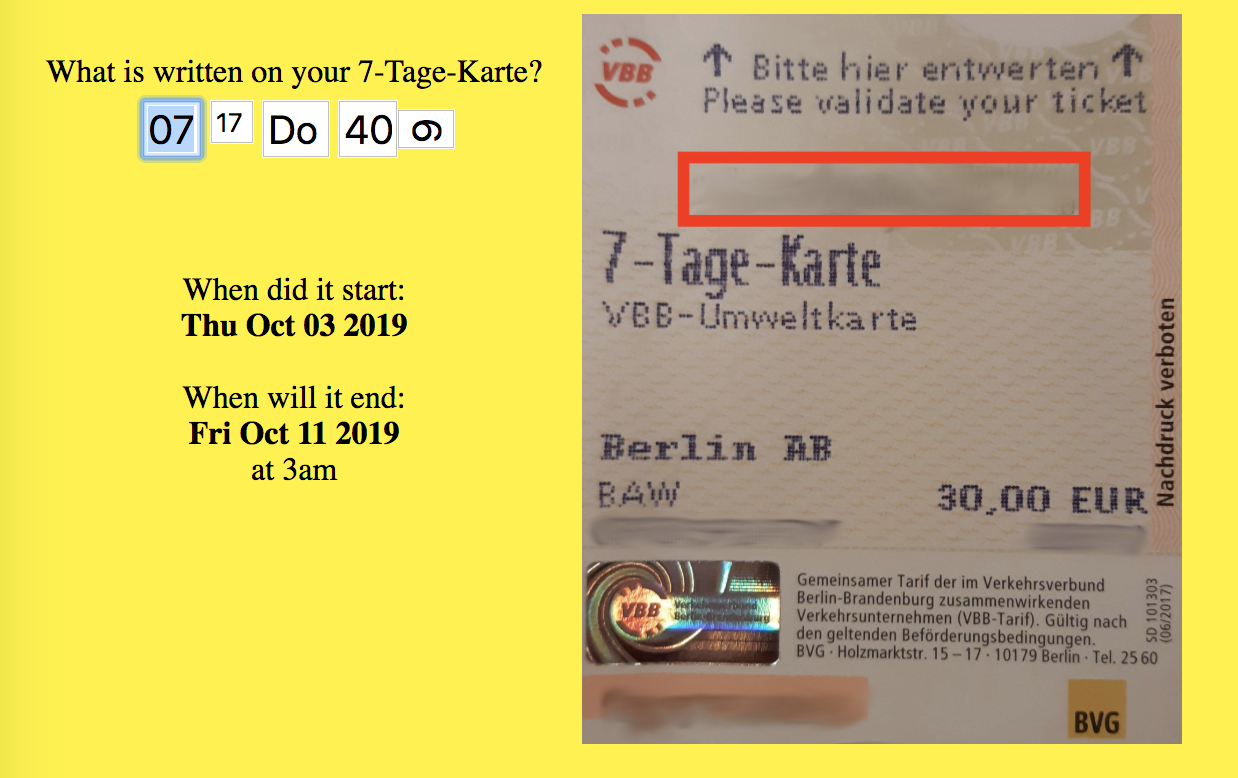
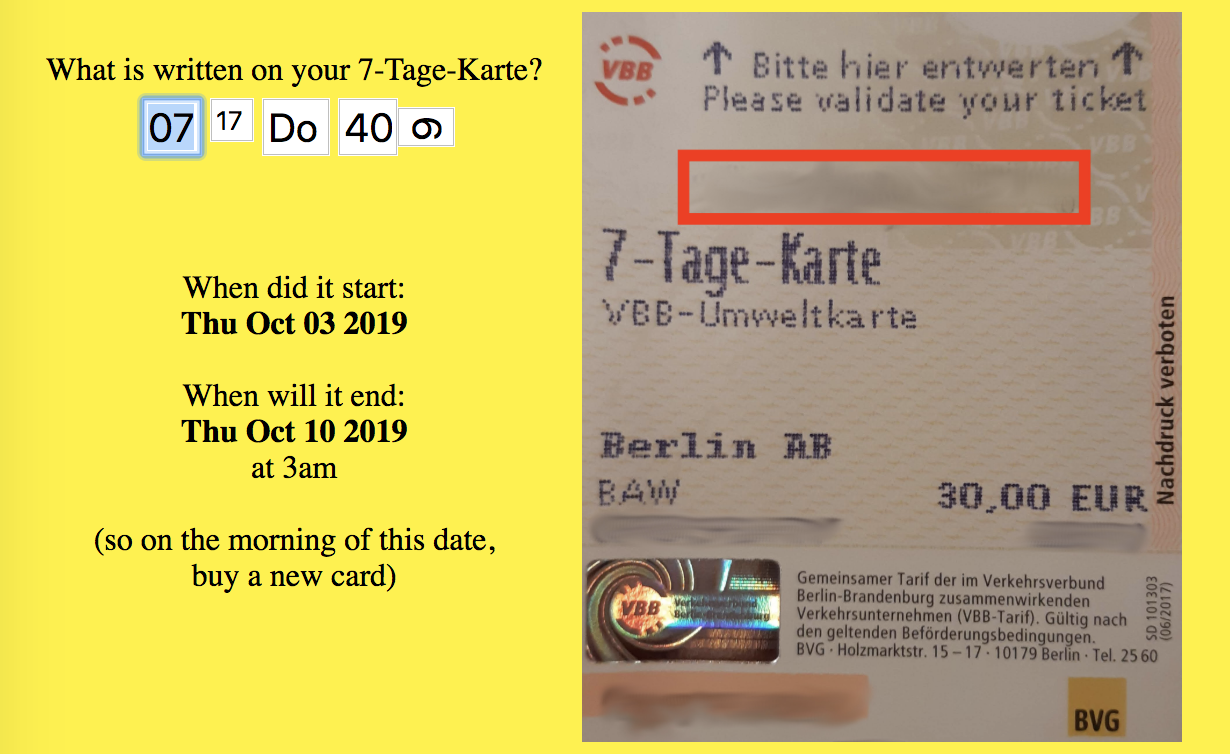
fixed year issue

diff --git a/index.html b/index.html
@@ -15,7 +15,12 @@
             let d = new Date();
             // d.setHours(parseInt(document.formName['hour'].value), parseInt(document.formName['minute'].value), 0, 0);
             d.setHours(0, 0, 0, 0);
-            d.setFullYear(2019, 0, 1);
+            const y = parseInt(document.formName['yearnum'].value);
+            const cy = d.getFullYear();
+            let y1 = Math.trunc(cy / 10) * 10 + y;
+            if (Math.abs(y1 - cy) > Math.abs(y1 - 10 - cy)) y1 = y1 - 10;
+            if (Math.abs(y1 - cy) > Math.abs(y1 + 10 - cy)) y1 = y1 + 10;
+            d.setFullYear(y1, 0, 1);
             const days = ['mo', 'di', 'mi', 'do', 'fr', 'sa', 'so'];
             const week = parseInt(document.formName['week'].value);
             const currday = days.indexOf(document.formName['day'].value.toLowerCase());
@@ -55,7 +60,8 @@
             <label id="datestart" style="font-weight: bold"></label><br>
             <br>
             When will it end:<br>
-            <label id="dateend" style="font-weight: bold"></label><br>at 3am<br><br>(so on the morning of this date,<br>buy a new card)<br>
+            <label id="dateend" style="font-weight: bold"></label><br>at 3am<br><br>
+            (so on the morning of this date,<br>buy a new card)<br>
         </div>
         <div>
             <img src="karte.jpg" width="300" style="float: left" />
